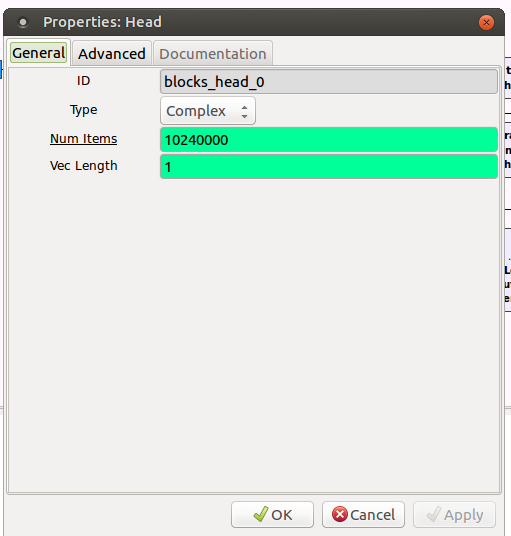
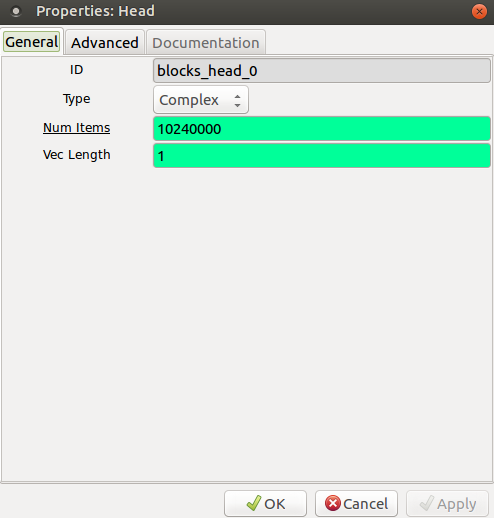
finished spectrum tutorial

Changed region(s): [[0.0, 0.0, 1.0, 1.0]]

diff --git a/website/software.html b/website/software.html
@@ -357,57 +357,54 @@ Congratulations, you have collected your first radio data set!
         <hr class="thinline">
 
     1. Start off with creating a new flowchart.
-<br><img src="https://adampbeardsley.github.io/CHART/website/tutorials/flow1.png" class="left" alt="First Data Set" style="width:300px; height:250px;border-radius:5px;"></br>
+<br><img src="https://adampbeardsley.github.io/CHART/website/tutorials/flow1.png" class="left" alt="First Data Set" style="width:400px; height:400px;border-radius:5px;"></br>
 
       <br>2. Open the Options block by double clicking it. <p>Select 'No GUI' for 'Generate Options' and select 'Run to Completion' for the 'Run Options'.
-<img src="https://adampbeardsley.github.io/CHART/website/tutorials/flow2.png" class="left" alt="First Data Set" style="width:600px; height:350px;border-radius:5px;"></br>
+<img src="https://adampbeardsley.github.io/CHART/website/tutorials/flow2.png" class="left" alt="First Data Set" style="width:500px; height:400px;border-radius:5px;"></br>
 
     <br>  3.  In the premade variable block, double click to open it. <p>Rename the ID 'samp_rate' and set the value to 2e6 (2 million).</p>
       Press ‘apply’ and ‘OK’ to close the box.
-<img src="https://adampbeardsley.github.io/CHART/website/tutorials/flow3.png" class="left" alt="First Data Set" style="width:600px; height:350px;border-radius:5px;"></br>
+<br><img src="https://adampbeardsley.github.io/CHART/website/tutorials/flow3.png" class="left" alt="First Data Set" style="width:500px; height:300px;border-radius:5px;"></br>
 
 <br>4. Add the 'RTL-Source' block. You can do this by locating it through the search bar and either double clicking on it, or by dragging it to the other side of the screen. Double click on the ‘RTL-Source’ block and change the 'RF Gain' to '45' (you might have to scroll down to see this option). Also, set the 'Sample Rate' to 'samp_rate'. Click ‘apply’ and ‘OK’.
 
-<img src="https://adampbeardsley.github.io/CHART/website/tutorials/flow4_0.png" class="left" alt="First Data Set" style="width:600px; height:350px;border-radius:5px;"></br>
+<img src="https://adampbeardsley.github.io/CHART/website/tutorials/flow4_0.png" class="left" alt="First Data Set" style="width:1000px; height:600px;border-radius:5px;"></br>
 
-<br><img src="https://adampbeardsley.github.io/CHART/website/tutorials/flow4_1.png" class="left" alt="First Data Set" style="width:600px; height:350px;border-radius:5px;"></br>
+<br><img src="https://adampbeardsley.github.io/CHART/website/tutorials/flow4_1.png" class="left" alt="First Data Set" style="width:800px; height:350px;border-radius:5px;"></br>
 
 <br>5. Create a variable block and name it 'veclength'. Make the value '1024'. click ‘apply’ and ‘OK’.
 
-<img src="https://adampbeardsley.github.io/CHART/website/tutorials/flow5.png" class="left" alt="First Data Set" style="width:600px; height:350px;border-radius:5px;"></br>
+<img src="https://adampbeardsley.github.io/CHART/website/tutorials/flow5.png" class="left" alt="First Data Set" style="width:800px; height:350px;border-radius:5px;"></br>
 
 <br>6. Add a 'Head' block. This block will limit the amount of data that will be processed. Set 'Num Items' to '10240000'. Click ‘apply’ and ‘OK’. Connect the head block to the 'RTL-Source' block by clicking on the little blue box that reads ‘out’ on the “RTL-SDR Source” box and ‘in’ on the “Head” box. Click on the white screen and arrow should appear connecting the two.
 
-<img src="https://adampbeardsley.github.io/CHART/website/tutorials/flow6_0.png" class="left" alt="First Data Set" style="width:600px; height:350px;border-radius:5px;"></br>
+<img src="https://adampbeardsley.github.io/CHART/website/tutorials/flow6_0.png" class="left" alt="First Data Set" style="width:500px; height:300px;border-radius:5px;"></br>
 
-<br><img src="https://adampbeardsley.github.io/CHART/website/tutorials/flow6_1.png" class="left" alt="First Data Set" style="width:600px; height:350px;border-radius:5px;"></br>
+<br><img src="https://adampbeardsley.github.io/CHART/website/tutorials/flow6_1.png" class="left" alt="First Data Set" style="width:600px; height:400px;border-radius:5px;"></br>
 
 <br>7. Add a 'Stream to Vector' block and set the 'Num Items' to 'veclength'. Click ‘apply’ and ‘OK’. Connect to 'Head' block.</p>
 <br>8. Add an 'FFT' block. This will convert the data into a Fast Fourier Transform. Set the 'FFT size' to 'veclength'; click ‘apply’ and ‘OK’. Connect to the 'Stream to Vector' block.</p>
 
 <br>9. Add a 'Complex to Mag^2' block and set ‘Vec Length’ to ‘veclength’. Click ‘apply’ and ‘OK’. This block makes all the data values real by squaring the complex numbers. Connect to 'FFT' block.</p>
 
-<img src="https://adampbeardsley.github.io/CHART/website/tutorials/flow7-9.png" class="left" alt="First Data Set" style="width:600px; height:350px;border-radius:5px;"></br>
+<img src="https://adampbeardsley.github.io/CHART/website/tutorials/flow7-9.png" class="left" alt="First Data Set" style="width:1000px; height:200px;border-radius:5px;"></br>
 
 <br>10. Add an 'Integrate' block and set ‘Vec. Length' to 'veclength' and 'Decimation' to '100'. Change ‘IO Type’ to ‘Float’. You know the drill, click ‘apply’ and ‘OK’. This reduces the data size by averaging every 100 items into one item. Connect to 'Mag^2' block.
 
-<img src="https://adampbeardsley.github.io/CHART/website/tutorials/flow10.png" class="left" alt="First Data Set" style="width:600px; height:350px;border-radius:5px;"></br>
+<br><img src="https://adampbeardsley.github.io/CHART/website/tutorials/flow10.png" class="left" alt="First Data Set" style="width:500px; height:400px;border-radius:5px;"></br>
 
 <br>11. Finally, add a 'File Sink' block and set 'Vec Length' to 'veclength'. Then change ‘IO Type’ to ‘Float’. Specify where you want the file to be written in by clicking on the ‘three dots’ icon next to ‘file’. Click ‘apply’ and ‘OK’. This will write the data into a file on your computer.
 
-<img src="https://adampbeardsley.github.io/CHART/website/tutorials/flow11_0.png" class="left" alt="First Data Set" style="width:600px; height:350px;border-radius:5px;"></br>
+<img src="https://adampbeardsley.github.io/CHART/website/tutorials/flow11_0.png" class="left" alt="First Data Set" style="width:600px; height:250px;border-radius:5px;"></br>
 
 Here is how the final flowchart should look:
 
-<img src="https://adampbeardsley.github.io/CHART/website/tutorials/flow11_1.png" class="left" alt="First Data Set" style="width:600px; height:350px;border-radius:5px;"></br>
+<img src="https://adampbeardsley.github.io/CHART/website/tutorials/flow11_1.png" class="left" alt="First Data Set" style="width:1000px; height:450px;border-radius:5px;"></br>
 <br>12. Generate your flow chart.
-*the light blue box on the blocks signifies: complex
-*the dark blue box on the box signifies:
-*the red box on the blocks signifies:
-</p>
-<br>13. Press the green play button to ‘Execute the flow graph’. </p>
 
-<img src="https://adampbeardsley.github.io/CHART/website/tutorials/flow12.png" class="left" alt="First Data Set" style="width:600px; height:350px;border-radius:5px;"></br>
+<br>13. Press the green play button to ‘Execute the flow graph’.
+
+<img src="https://adampbeardsley.github.io/CHART/website/tutorials/flow12.png" class="left" alt="First Data Set" style="width:1000px; height:500px;border-radius:5px;"></br>
 
 <br>14. To double check if your data was written in the desired location, open up your terminal. You can use the following Linux commands to find the recorded data:
 ls: directory listing; this will show you all of the contents/ folders in your current location          on the computer.
@@ -420,7 +417,7 @@ For example: I started by typing ls into my terminal and pressed enter. This wil
 *At the bottom you will see that once I located my file, I typed ls -lh to see how big my file was. The fact that it is 400k (400 kilobytes) tells me that I have located my file *see the “Analyzing How Much Data Was Collected ” tutorial to see why this is.
 
 
-<img src="https://adampbeardsley.github.io/CHART/website/tutorials/flow14.png" class="left" alt="First Data Set" style="width:600px; height:350px;border-radius:5px;"></br>
+<img src="https://adampbeardsley.github.io/CHART/website/tutorials/flow14.png" class="left" alt="First Data Set" style="width:600px; height:500px;border-radius:5px;"></br>
 
 
 
